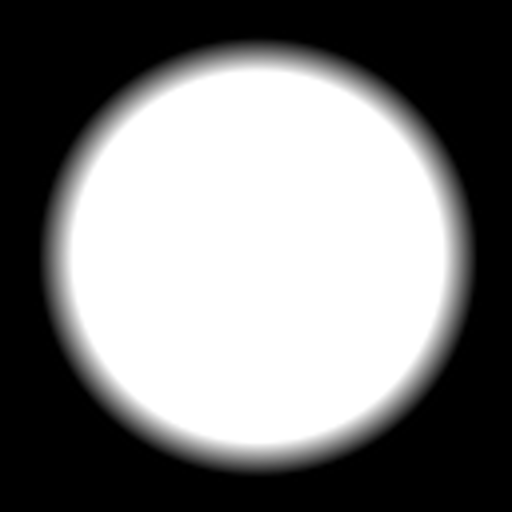
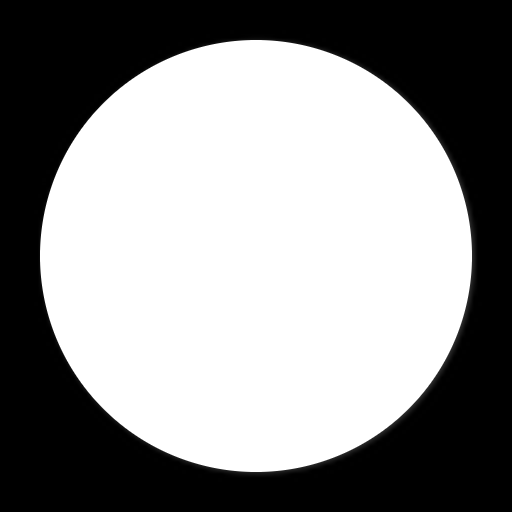
Light halo grows with killed spiders

Changed region(s): [[0.0625, 0.0625, 0.9375, 0.9375]]

diff --git a/lonekitty.js b/lonekitty.js
@@ -19,15 +19,16 @@ const KITTY_SPEED = 2.0;
 const KITTY_SIZE = 64;
 const KITTY_FRAME_COUNT = 4;
 const KITTY_ANIM_SPEED = 0.01;
-const LIGHT_SIZE = 256;
+const LIGHT_MIN_SIZE = 128;
+const LIGHT_MAX_SIZE = 256;
 const SPIDER_SPEED = 0.5;
 const SPIDER_SIZE = 32;
 const SPIDER_FRAME_COUNT = 4;
 const SPIDERDEATH_FRAME_COUNT = 4;
 const SPIDER_ANIM_SPEED = 0.05;
 const SPIDER_COUNT = 256;
-const SPIDER_FLEE_DIST = 90;
-const SPIDER_FLEE_FACTOR = 0.05;
+const SPIDER_FLEE_MARGIN = 20;
+const SPIDER_FLEE_FACTOR = 0.1;
 const AREA_RADIUS = 210;
 const EXIT_URL = "http://www.youtube.com/watch?v=QH2-TGUlwu4&autoplay=1";
 
@@ -269,7 +270,8 @@ function gameInit()
 
     for (var i=0; i<SPIDER_COUNT; ++i)
     {
-        var distFromCenter = SPIDER_FLEE_DIST + Math.random() * (AREA_RADIUS - SPIDER_FLEE_DIST);
+        var minDist = LIGHT_MIN_SIZE * 0.5;
+        var distFromCenter = minDist + Math.random() * (AREA_RADIUS - minDist);
         var angle = Math.random() * Math.PI * 2;
 
         //log("spider spawn " + i + " d=" + distFromCenter + " a=" + angle);
@@ -298,6 +300,8 @@ var g_lightX = CANVAS_WIDTH * 0.5;
 var g_lightY = CANVAS_HEIGHT * 0.5;
 var g_lightTargetX = CANVAS_WIDTH * 0.5;
 var g_lightTargetY = CANVAS_HEIGHT * 0.5;
+var g_lightSize = LIGHT_MIN_SIZE;
+var g_deadSpiderCount = 0;
 function gameUpdate()
 {
     // move kitty
@@ -333,9 +337,16 @@ function gameUpdate()
     g_lightX = lerp(LIGHT_SMOOTH2, g_lightX, g_lightTargetX);
     g_lightY = lerp(LIGHT_SMOOTH2, g_lightY, g_lightTargetY);
 
+    // update light size
+    g_lightSize = lerp(
+        g_deadSpiderCount / SPIDER_COUNT,
+        LIGHT_MIN_SIZE, LIGHT_MAX_SIZE
+    );
+
     // spiders
-    var sqFleeDist = SPIDER_FLEE_DIST*SPIDER_FLEE_DIST;
-    var allDead = true;
+    var fleeDist = (g_lightSize * 0.5) - SPIDER_FLEE_MARGIN;
+    var sqFleeDist = fleeDist * fleeDist;
+    g_deadSpiderCount = 0;
     for (var i=0; i<SPIDER_COUNT; ++i)
     {
         if (!g_spiderOut[i])
@@ -351,12 +362,15 @@ function gameUpdate()
                 g_spiderX[i] += t * dx * SPIDER_FLEE_FACTOR;
                 g_spiderY[i] += t * dy * SPIDER_FLEE_FACTOR;
             }
+            else
+            {
+                // always move a bit if 
+                dx = Math.cos(g_spiderAngle[i]) * SPIDER_SPEED;
+                dy = Math.sin(g_spiderAngle[i]) * SPIDER_SPEED;
+                //g_spiderX[i] += dx;
+                //g_spiderY[i] += dy;
+            }
 
-            // always move a bit
-            dx = Math.cos(g_spiderAngle[i]) * SPIDER_SPEED;
-            dy = Math.sin(g_spiderAngle[i]) * SPIDER_SPEED;
-            g_spiderX[i] += dx;
-            g_spiderY[i] += dy;
 
             // update animation cursor
             g_spiderAnimCursor[i] += SPIDER_ANIM_SPEED;
@@ -374,18 +388,20 @@ function gameUpdate()
                 //log("spider " + i + " out");
                 g_spiderOut[i] = true;
             }
-            allDead = false;
         }
         else if (g_spiderdeathAnimCursor[i] < 1.0)
         {
             // update death anim cursor
             g_spiderdeathAnimCursor[i] += SPIDER_ANIM_SPEED;
-            allDead = false;
+        }
+        else
+        {
+            ++g_deadSpiderCount;
         }
     }
 
     // win condition: all spiders out and dead
-    if (allDead)
+    if (g_deadSpiderCount == SPIDER_COUNT)
     {
         exit();
     }
@@ -393,18 +409,16 @@ function gameUpdate()
 
 //-------------------------------------------------------------------------------
 // game draw
-const LIGHT_CLEARSIZE = LIGHT_SIZE * 0.85;
 function gameDraw()
 {
     // draw area / clear canvas (partly)
     // NB: this works as long as the area image fits the canvas
-    var darknessImgX = Math.floor(g_lightX - LIGHT_SIZE * 0.5);
-    var darknessImgY = Math.floor(g_lightY - LIGHT_SIZE * 0.5);
-    const MARGIN = 5;
-    var leftX = clamp(darknessImgX + MARGIN, 0, CANVAS_WIDTH);
-    var topY = clamp(darknessImgY + MARGIN, 0, CANVAS_HEIGHT);
-    var rightX = clamp(darknessImgX + LIGHT_SIZE - MARGIN, 0, CANVAS_WIDTH);
-    var bottomY = clamp(darknessImgY + LIGHT_SIZE - MARGIN, 0, CANVAS_HEIGHT);
+    var darknessImgX = g_lightX - g_lightSize * 0.5;
+    var darknessImgY = g_lightY - g_lightSize * 0.5;
+    var leftX = clamp(darknessImgX, 0, CANVAS_WIDTH);
+    var topY = clamp(darknessImgY, 0, CANVAS_HEIGHT);
+    var rightX = clamp(darknessImgX + g_lightSize, 0, CANVAS_WIDTH);
+    var bottomY = clamp(darknessImgY + g_lightSize, 0, CANVAS_HEIGHT);
     //log ("lx=" + leftX + " ty=" + topY + " rx=" + rightX + " by=" + bottomY);
     g_context.drawImage(
         g_areaImg,
@@ -415,17 +429,15 @@ function gameDraw()
     );
 
     // draw spiders
-    // NB: only if inside halo to preserve perf, extra borders prevent popping
-    var darknessImgX = g_lightX - LIGHT_SIZE * 0.5;
-    var darknessImgY = g_lightY - LIGHT_SIZE * 0.5;
+    // NB: only if inside halo to preserve perf
     for (var i=0; i<SPIDER_COUNT; ++i)
     {
         var spiderImgX = g_spiderX[i] - SPIDER_SIZE * 0.5;
         var spiderImgY = g_spiderY[i] - SPIDER_SIZE * 0.5;
-        if (spiderImgX > darknessImgX &&
-            (spiderImgX+SPIDER_SIZE) < (darknessImgX+LIGHT_SIZE) &&
-            spiderImgY > darknessImgY &&
-            (spiderImgY+SPIDER_SIZE) < (darknessImgY+LIGHT_SIZE))
+        if ((spiderImgX + SPIDER_SIZE) > darknessImgX &&
+            spiderImgX < (darknessImgX + g_lightSize) &&
+            (spiderImgY + SPIDER_SIZE) > darknessImgY &&
+            spiderImgY < (darknessImgY + g_lightSize))
         {
             if (!g_spiderOut[i])
             {
@@ -464,5 +476,28 @@ function gameDraw()
     g_context.drawImage(
         g_darknessImg,
         darknessImgX, darknessImgY,
-        LIGHT_SIZE, LIGHT_SIZE);
+        g_lightSize, g_lightSize);
+
+    // extra clearing strips to hide spiders
+    var clearSize = g_lightSize + SPIDER_SIZE * 2;
+    var clearX = g_lightX - clearSize * 0.5;
+    var clearY = g_lightY - clearSize * 0.5;
+    const MARGIN = 1;
+    var xleft = clearX - MARGIN;
+    var xright = clearX + g_lightSize + SPIDER_SIZE - MARGIN;
+    var xleft2 = clearX + SPIDER_SIZE - MARGIN;
+    var ytop = clearY - MARGIN;
+    var ybottom = clearY + g_lightSize + SPIDER_SIZE - MARGIN;
+    var vwidth = SPIDER_SIZE + MARGIN * 2;
+    var vheight = clearSize + MARGIN * 2;
+    var hwidth = g_lightSize + MARGIN * 2;
+    var hheight = SPIDER_SIZE + MARGIN * 2;
+    g_context.fillStyle = "black";
+    g_context.fillRect(xleft, ytop, vwidth, vheight); // left strip
+    g_context.fillRect(xright, ytop, vwidth, vheight); // right strip
+    g_context.fillRect(xleft2, ytop, hwidth, hheight); // top strip
+    g_context.fillRect(xleft2, ybottom, hwidth, hheight); // top strip
+    // debug draw
+    //g_context.strokeStyle = "red";
+    //g_context.strokeRect(clearX+4, clearY+4, clearSize-8, clearSize-8);
 }
